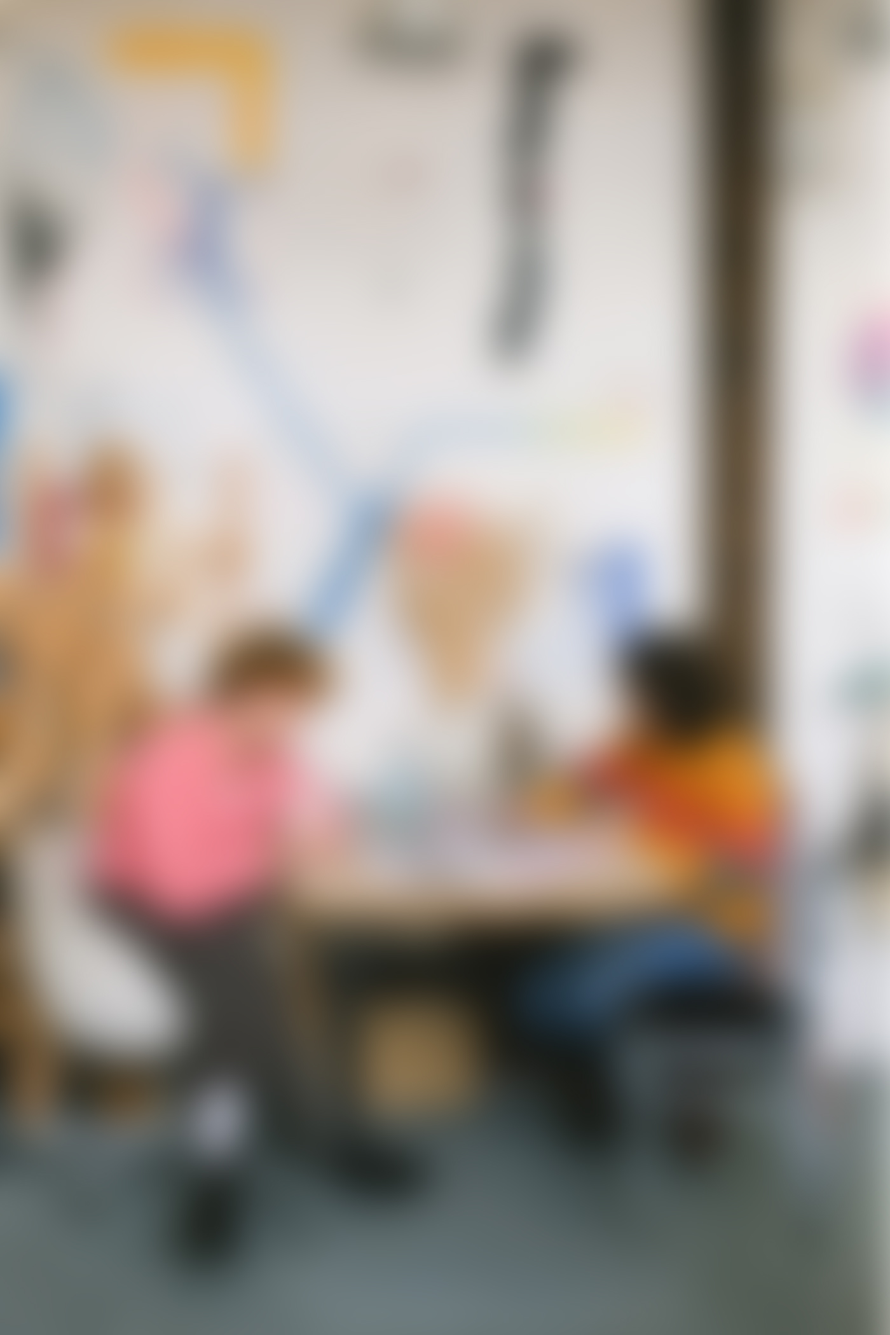
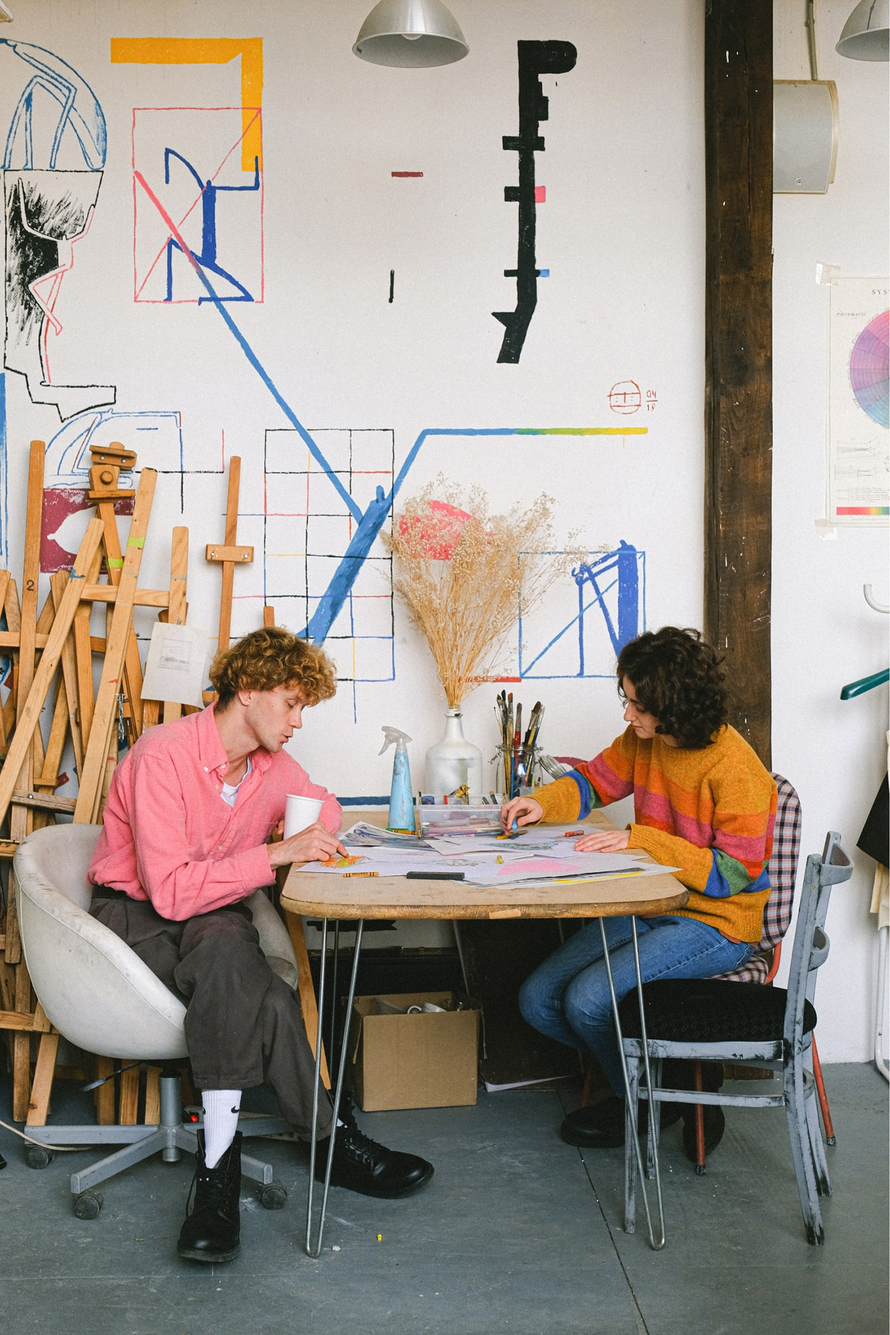
1

diff --git a/home-1.html b/home-1.html
@@ -270,7 +270,7 @@
 
                                 <div class="mil-complex-text justify-content-center mil-up mil-mb-15">
 
-                                    <span class="mil-text-image"><img src="img/photo/2.jpg" alt="team"></span>
+                                    <span class="mil-text-image"><img src="img/photo/photo-2.jpg" alt="team"></span>
                                     <h2 class="mil-h1 mil-muted mil-center">Unique <span class="mil-thin">Ideas</span></h2>
 
                                 </div>
